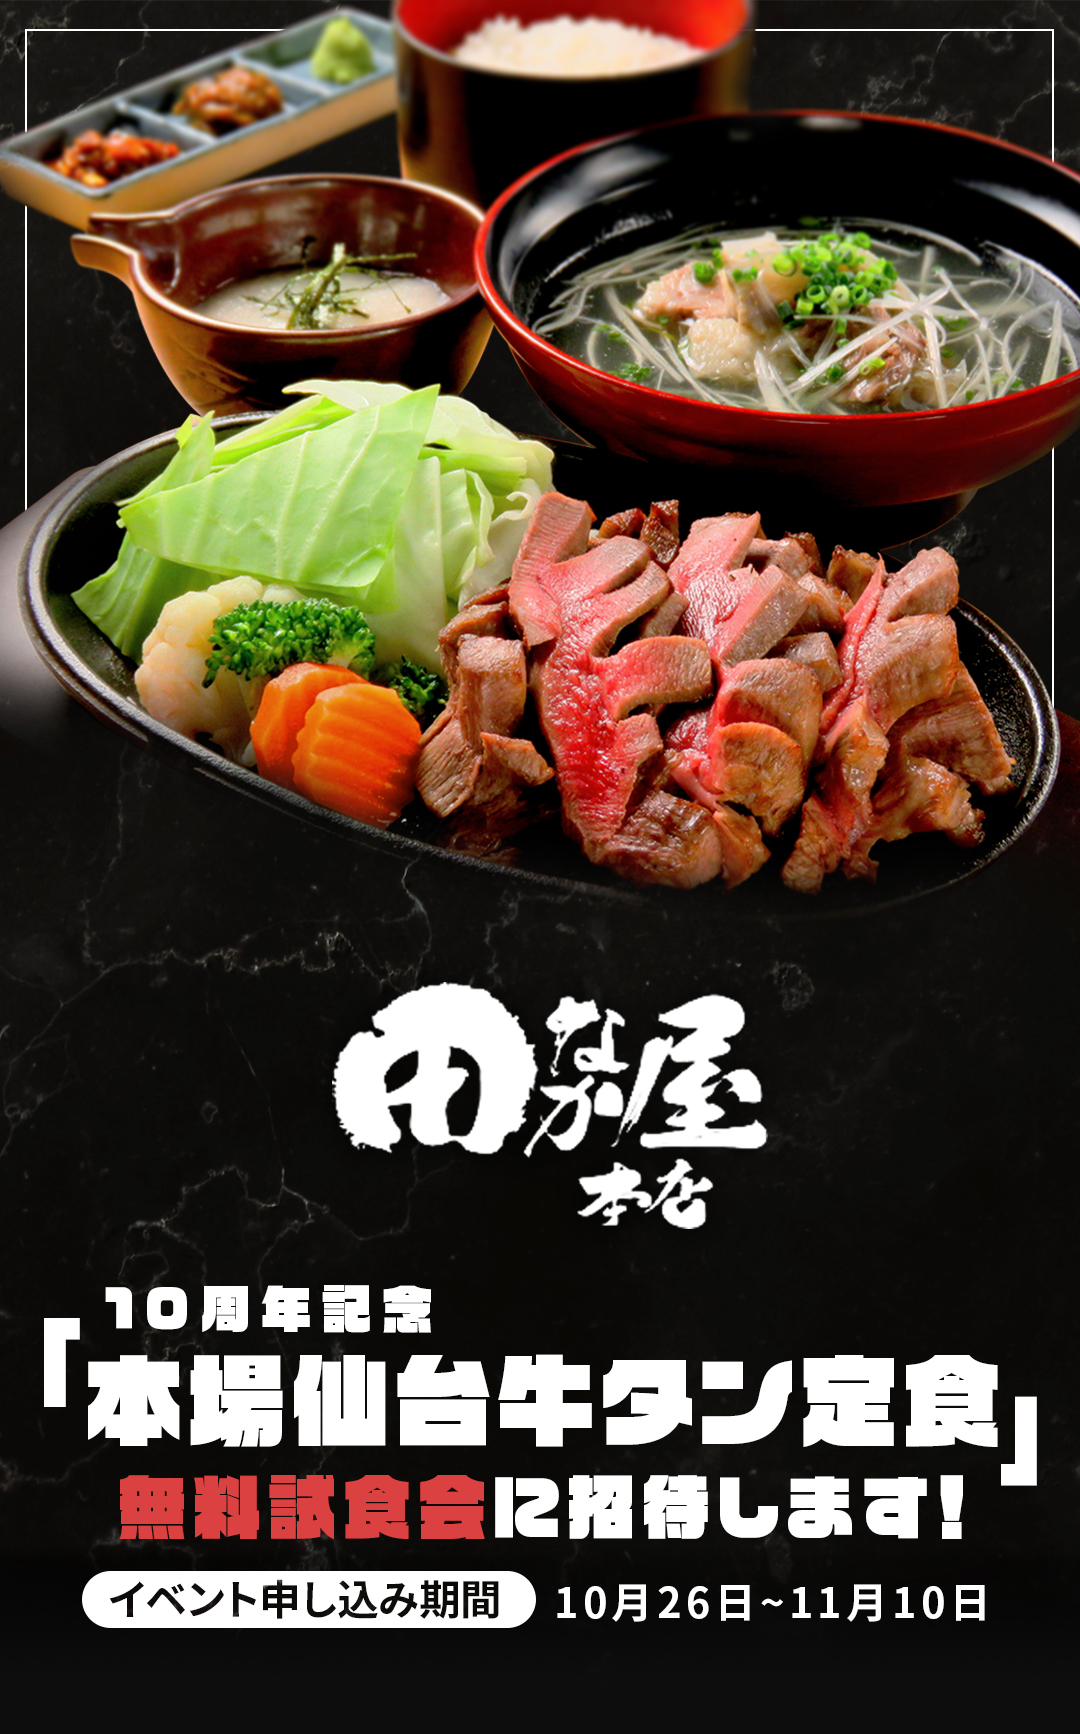
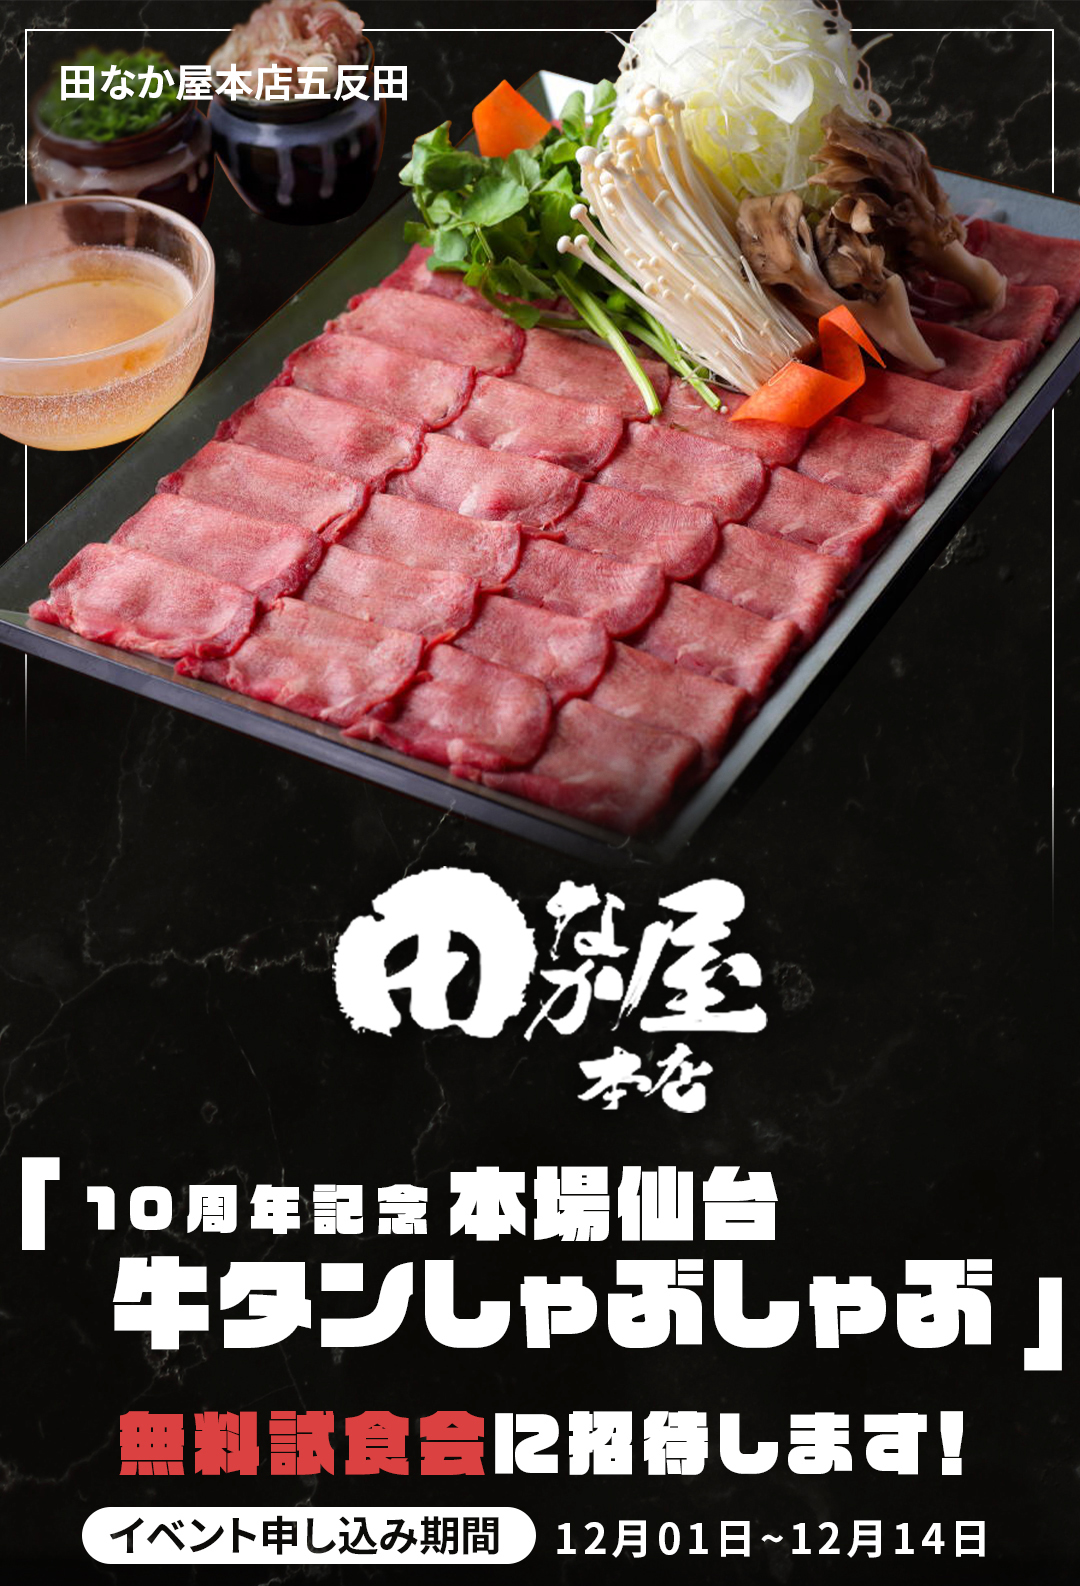
12.fixed

diff --git a/index.html b/index.html
@@ -1,6 +1,37 @@
 <!DOCTYPE html>
 <html lang="en">
   <head>
+    <!-- Google Tag Manager -->
+    <script>
+      (function (w, d, s, l, i) {
+        w[l] = w[l] || [];
+        w[l].push({ "gtm.start": new Date().getTime(), event: "gtm.js" });
+        var f = d.getElementsByTagName(s)[0],
+          j = d.createElement(s),
+          dl = l != "dataLayer" ? "&l=" + l : "";
+        j.async = true;
+        j.src = "https://www.googletagmanager.com/gtm.js?id=" + i + dl;
+        f.parentNode.insertBefore(j, f);
+      })(window, document, "script", "dataLayer", "GTM-5ZDBGCV");
+    </script>
+    <!-- End Google Tag Manager -->
+
+    <!-- Global site tag (gtag.js) - Google Analytics -->
+    <script
+      async
+      src="https://www.googletagmanager.com/gtag/js?id=G-2YEXEEMWE3"
+    ></script>
+    <script>
+      window.dataLayer = window.dataLayer || [];
+      function gtag() {
+        dataLayer.push(arguments);
+      }
+      gtag("js", new Date());
+
+      gtag("config", "G-2YEXEEMWE3");
+    </script>
+    <!-- End Google Analytics -->
+
     <meta charset="UTF-8" />
     <meta name="viewport" content="width=device-width, initial-scale=1.0" />
     <title>田なか屋本店五反田 10周年記念イベント</title>
@@ -23,10 +54,7 @@
     </div>
     <div class="wrapper">
       <header>
-        <img
-          src="src/img/LP_gotanda.jpg"
-          alt="田なか屋本店五反田 10周年記念イベント"
-        />
+        <img src="src/img/LP.jpg" alt="田なか屋本店五反田 10周年記念イベント" />
         <h1 class="hidden">田なか屋本店五反田 10周年記念イベント</h1>
       </header>
       <div class="line detail">
@@ -36,11 +64,11 @@
         <div class="innerBox">
           <div class="innerLinebox">
             <h2>
-              田なか屋本店創業10周年記念で<br />「本場仙台牛タン定食」の<br />無料試食会に１組２名様、<br />50組まで招待します。
+              田なか屋本店創業10周年記念で<br />「本場仙台牛タンしゃぶしゃぶ」の無料試食会に１組２名様、50組まで招待します。
             </h2>
             <ul>
               <li>対象店舗：田なか屋本店五反田</li>
-              <li>申し込み期間：10月26日~11月10日</li>
+              <li>申し込み期間：12月1日~12月14日</li>
               <li>当選発表日：11月16日以後順次発表</li>
               <li>
                 当選発表方法：DM
@@ -48,18 +76,11 @@
                   <li>(DMが届かない場合はメールにて)</li>
                 </ul>
               </li>
+              <li>当選来店日：<br />当選日から2021年1月末</li>
               <li>
-                当選来店日：11月17日~12月30日
+                来店の際確認方法：<br />公式ホームページから予約
                 <ul>
-                  <li>(※12月金土の夜は不可)</li>
-                </ul>
-              </li>
-              <li>
-                来店の際確認方法：公式ホームページから予約
-                <ul>
-                  <li>
-                    公式ホームページの予約の備考で書いて、来店時DM画面提示
-                  </li>
+                  <li>備考で当選の旨記載頂き、来店時DM画面提示</li>
                 </ul>
               </li>
             </ul>
@@ -69,7 +90,15 @@
       <div class="line howto">
         <img src="src/img/lines/howto.png" alt="" />
       </div>
+      <div class="detail_box">
+        <div class="innerBox">
+          <div class="innerLinebox">
+            <!--여기에 응모방법-->
+          </div>
+        </div>
+      </div>
       <div class="howto_box">
+        <!--
         <div class="innerBox">
           <div class="innerLinebox">
             <a
@@ -97,7 +126,8 @@
             </ul>
           </div>
         </div>
-      </div>
+      --></div>
+
       <div class="line info">
         <img src="src/img/lines/info.png" alt="" />
       </div>
@@ -121,7 +151,7 @@
         <div class="innerBox">
           <div class="innerLinebox">
             <iframe
-              src="https://www.google.com/maps/embed?pb=!1m14!1m8!1m3!1d25944.37334627118!2d139.724716!3d35.626576!3m2!1i1024!2i768!4f13.1!3m3!1m2!1s0x0%3A0xc010ebea5f5b4716!2z55Sw44Gq44GL5bGL5pys5bqXIOS6lOWPjeeUsOW6lw!5e0!3m2!1sko!2sjp!4v1602666964048!5m2!1sko!2sjp"
+              src="https://www.google.com/maps/embed?pb=!1m14!1m8!1m3!1d12972.186754260916!2d139.7247162!3d35.6265755!3m2!1i1024!2i768!4f13.1!3m3!1m2!1s0x0%3A0xc010ebea5f5b4716!2z55Sw44Gq44GL5bGL5pys5bqXIOS6lOWPjeeUsOW6lw!5e0!3m2!1sja!2sjp!4v1606275080589!5m2!1sja!2sjp"
               width="100%"
               height="350"
               frameborder="0"
@@ -133,137 +163,124 @@
           </div>
         </div>
       </div>
+      <div class="detail_box">
+        <div class="innerBox">
+          <div class="innerLinebox">
+            <a
+              href="https://www.instagram.com/tanakaya_gotanda/"
+              target="_blank"
+            >
+              <ul>
+                <li>
+                  <img
+                    class="img150"
+                    src="src/img/followbtn/followbtn_gotanda.png"
+                    alt="インスタグラムフォロー"
+                  />
+                </li>
+                <li>田なか屋本店　インスタグラムへ</li>
+              </ul>
+            </a>
+          </div>
+        </div>
+      </div>
 
       <div class="line raffle">
         <img src="src/img/lines/raffle.png" alt="" />
       </div>
       <div class="raffle_box">
         <form
-          action="https://docs.google.com/forms/d/e/1FAIpQLSddwC2_XjHy-yy_VhVLHfLQ7gQp1YnOvCuNRvBNwO-kCW4wOw/formResponse"
+          action="https://docs.google.com/forms/d/e/1FAIpQLSeA8Y9aRVyfW5GE0N2Mz6aryF9aenEMoBrMO10Iwdmy_XAeBA/formResponse"
           target="_self"
           id="bootstrapForm"
           method="POST"
         >
           <fieldset>
             <h2>
-              田なか屋本店
-              創業10周年記念！「本場仙台牛タン定食」の無料試食会に申し込み<br /><small
+              田なか屋本店 創業10周年記念！<br />「本場仙台牛タンしゃぶしゃぶ」の<br />無料試食会に申し込み<br /><small
                 >田なか屋本店
                 五反田で「本場仙台牛タン定食」の無料試食会に50組(100名様)を招待します。</small
-              ><br />
+              >
             </h2>
             <div class="requiredTag">
               <strong>*必須</strong>
             </div>
           </fieldset>
 
-          <!-- Field type: "short" id: "1110357670" -->
+          <!-- Field type: "short" id: "59020870" -->
           <fieldset>
-            <legend for="1110357670"><strong>*</strong> お名前 (漢字)</legend>
+            <legend for="59020870"><strong>*</strong> お名前（漢字）</legend>
             <div class="form-group">
               <input
-                id="1649752412"
+                id="2084245980"
                 type="text"
-                name="entry.1649752412"
+                name="entry.2084245980"
                 class="form-control"
                 required
               />
             </div>
           </fieldset>
 
-          <!-- Field type: "short" id: "721236863" -->
+          <!-- Field type: "short" id: "1112297597" -->
           <fieldset>
-            <legend for="721236863">
-              <strong>*</strong> お名前 (フリガナ)
+            <legend for="1112297597">
+              <strong>*</strong> お名前（フリガナ）
             </legend>
             <div class="form-group">
               <input
-                id="1717313382"
+                id="1744763170"
                 type="text"
-                name="entry.1717313382"
+                name="entry.1744763170"
                 class="form-control"
                 required
               />
             </div>
           </fieldset>
 
-          <!-- Field type: "short" id: "124985133" -->
+          <!-- Field type: "short" id: "1089930681" -->
           <fieldset>
-            <legend for="124985133">
+            <legend for="1089930681">
               <strong>*</strong> Instagram(インスタグラム) ID
             </legend>
             <div class="form-group">
               <input
-                id="1175952310"
+                id="858556177"
                 type="text"
-                name="entry.1175952310"
+                name="entry.858556177"
                 class="form-control"
                 required
               />
             </div>
           </fieldset>
 
-          <!-- Field type: "choices" id: "1622781906" -->
+          <!-- Field type: "short" id: "1382356626" -->
           <fieldset>
-            <legend for="1622781906">
-              <strong>*</strong>
-              田なか屋本店五反田(tanakaya_gotanda)のインスタグラムアカウントをフォローしてますか？
-            </legend>
-            <div class="form-group radio">
-              <div class="radio">
-                <label>
-                  <input
-                    type="radio"
-                    name="entry.149970150"
-                    value="はい"
-                    required
-                  />
-                  <span>はい</span>
-                </label>
-              </div>
-              <div class="radio">
-                <label>
-                  <input
-                    type="radio"
-                    name="entry.149970150"
-                    value="いいえ"
-                    required
-                  />
-                  <span>いいえ</span>
-                </label>
-              </div>
-            </div>
-          </fieldset>
-
-          <!-- Field type: "short" id: "2115962045" -->
-          <fieldset>
-            <legend for="2115962045">お電話番号</legend>
+            <legend for="1382356626">お電話番号</legend>
             <div class="form-group">
               <input
-                id="326851470"
-                type="tel"
-                name="entry.326851470"
+                id="1667105423"
+                type="text"
+                name="entry.1667105423"
                 class="form-control"
               />
             </div>
           </fieldset>
 
-          <!-- Field type: "short" id: "166536468" -->
+          <!-- Field type: "short" id: "1591489757" -->
           <fieldset>
-            <legend for="166536468">
-              メールアドレス(※
+            <legend for="1591489757">
+              メールアドレス<br />(※
               DMから当選連絡が繋がらない場合、下記のメールアドレスにご連絡させていただきます。)
             </legend>
             <div class="form-group">
               <input
-                id="61244465"
-                type="email"
-                name="entry.61244465"
+                id="2092356540"
+                type="text"
+                name="entry.2092356540"
                 class="form-control"
               />
             </div>
           </fieldset>
-
           <fieldset>
             <legend>
               ※お客様の投稿をリポストする場合がございます。ご了承ください。
@@ -271,7 +288,7 @@
           </fieldset>
 
           <input type="hidden" name="fvv" value="1" />
-          <input type="hidden" name="fbzx" value="3910639739606758615" />
+          <input type="hidden" name="fbzx" value="-4763559737586319012" />
           <!--
         CAVEAT: In multipages (multisection) forms, *pageHistory* field tells to google what sections we've currently completed.
         This usually starts as "0" for the first page, then "0,1" in the second page... up to "0,1,2..N" in n-th page.

diff --git a/src/css/style.css b/src/css/style.css
@@ -23,6 +23,13 @@ h3 {
   font-weight: 700;
 }
 
+h2 small {
+  font-size: 0.8rem;
+  font-weight: 400;
+  line-height: 0pt;
+  opacity: 0.8;
+}
+
 .hidden {
   display: none;
 }
@@ -275,6 +282,19 @@ strong {
 }
 .requiredTag {
   margin-top: 8pt;
+}
+
+.detail_box:last-child .innerBox .innerLinebox {
+  display: flex;
+  justify-content: center;
+  align-items: center;
+}
+
+.detail_box .innerBox .innerLinebox a ul {
+  display: flex;
+  flex-direction: column;
+  justify-content: center;
+  align-items: center;
 }
 
 @media (min-width: 320px) and (max-width: 480px) {
